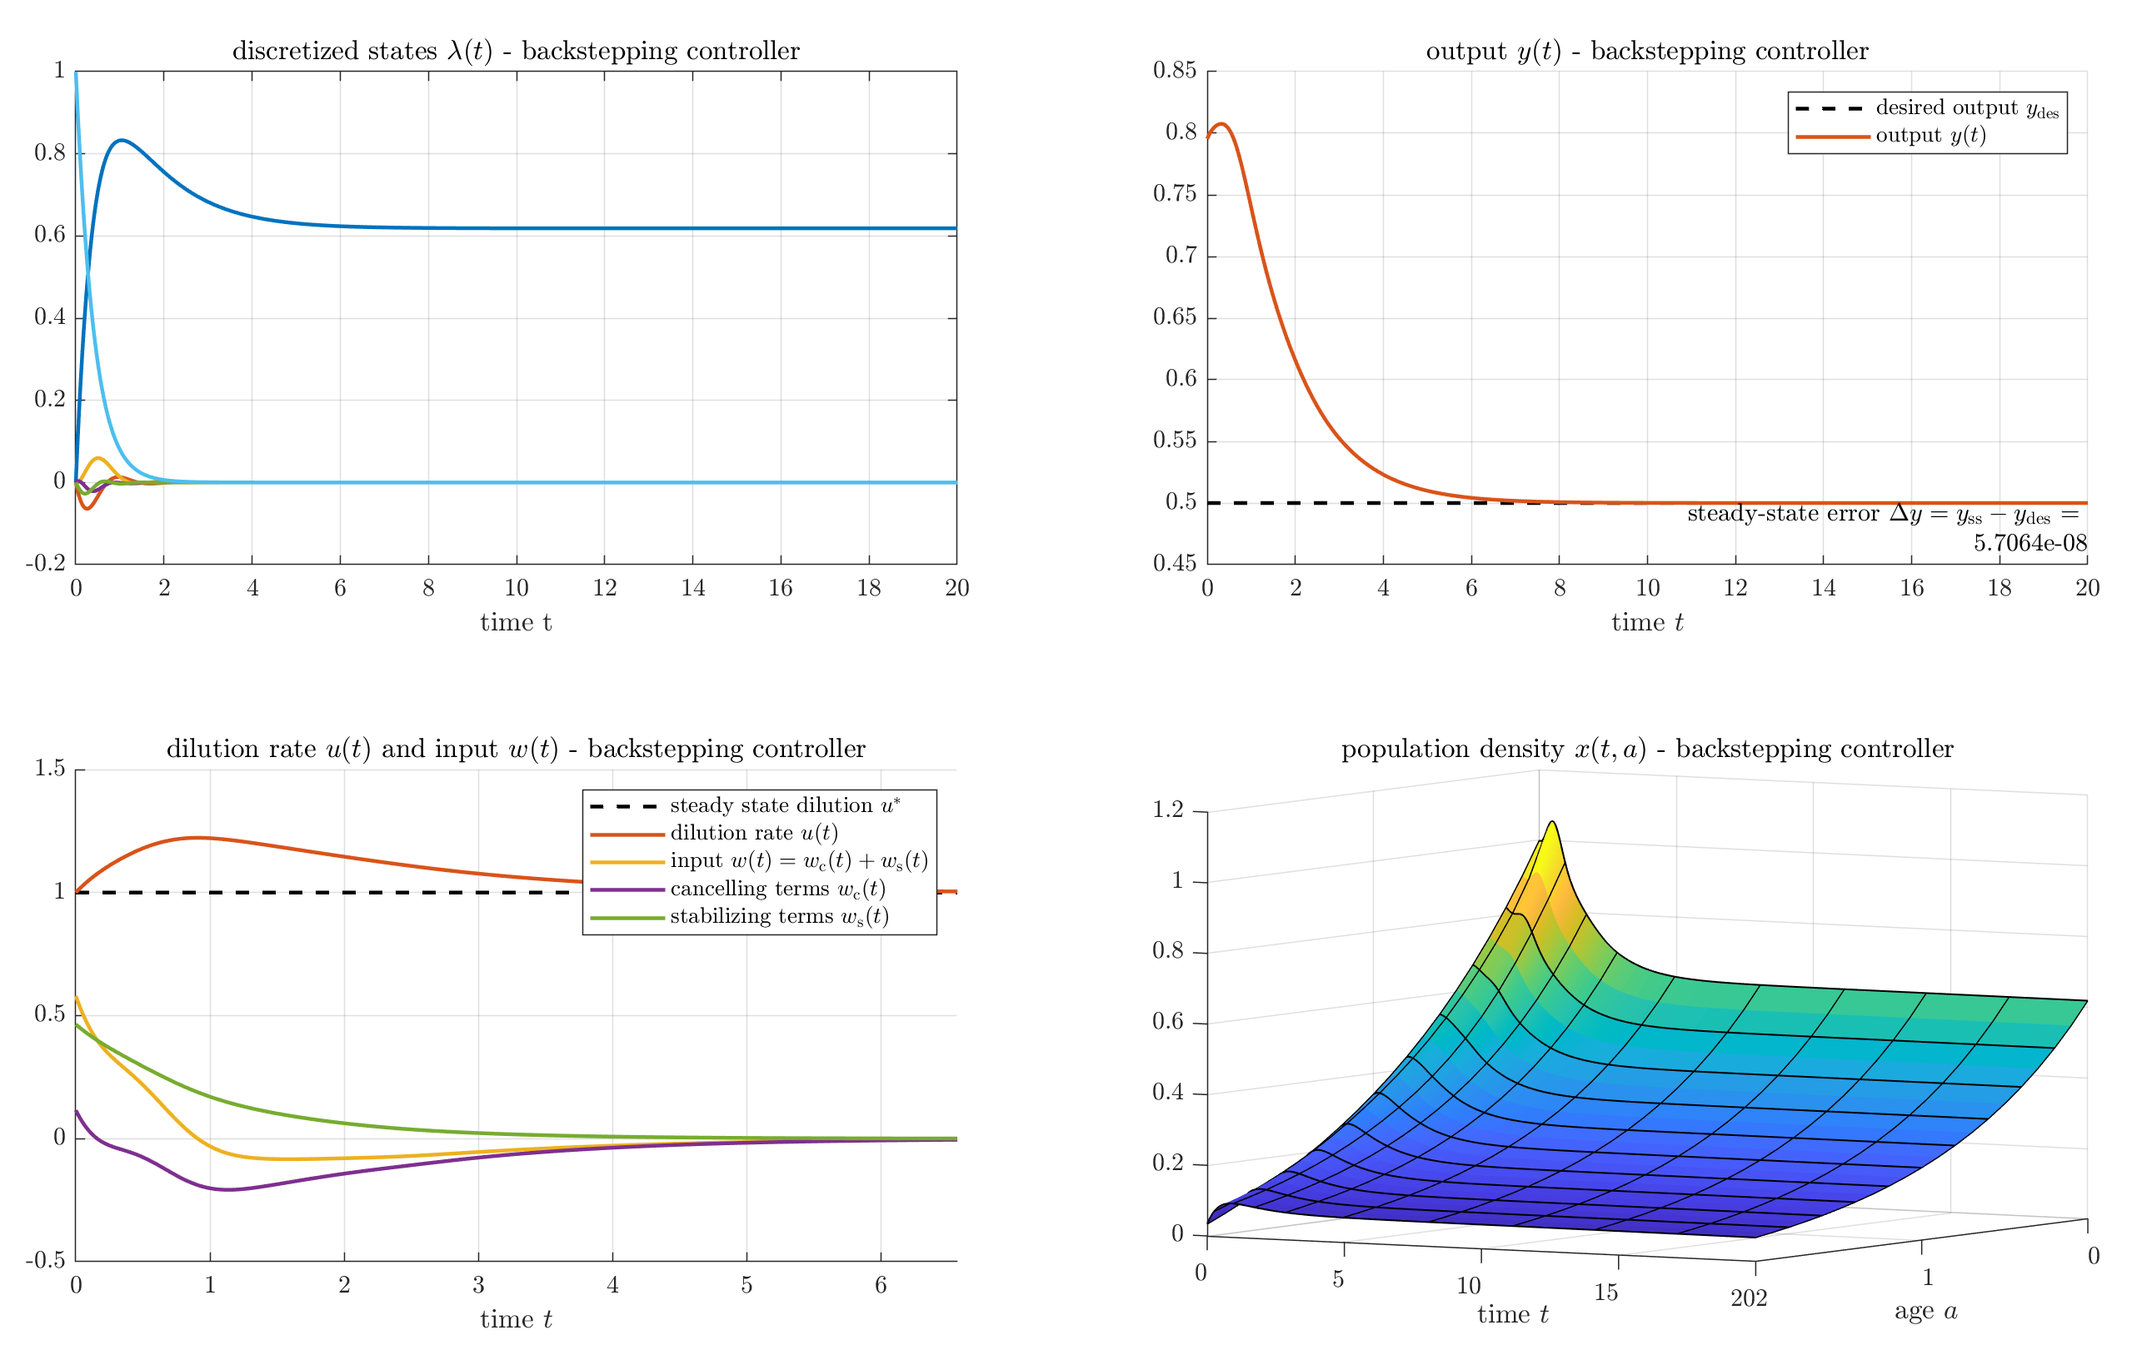
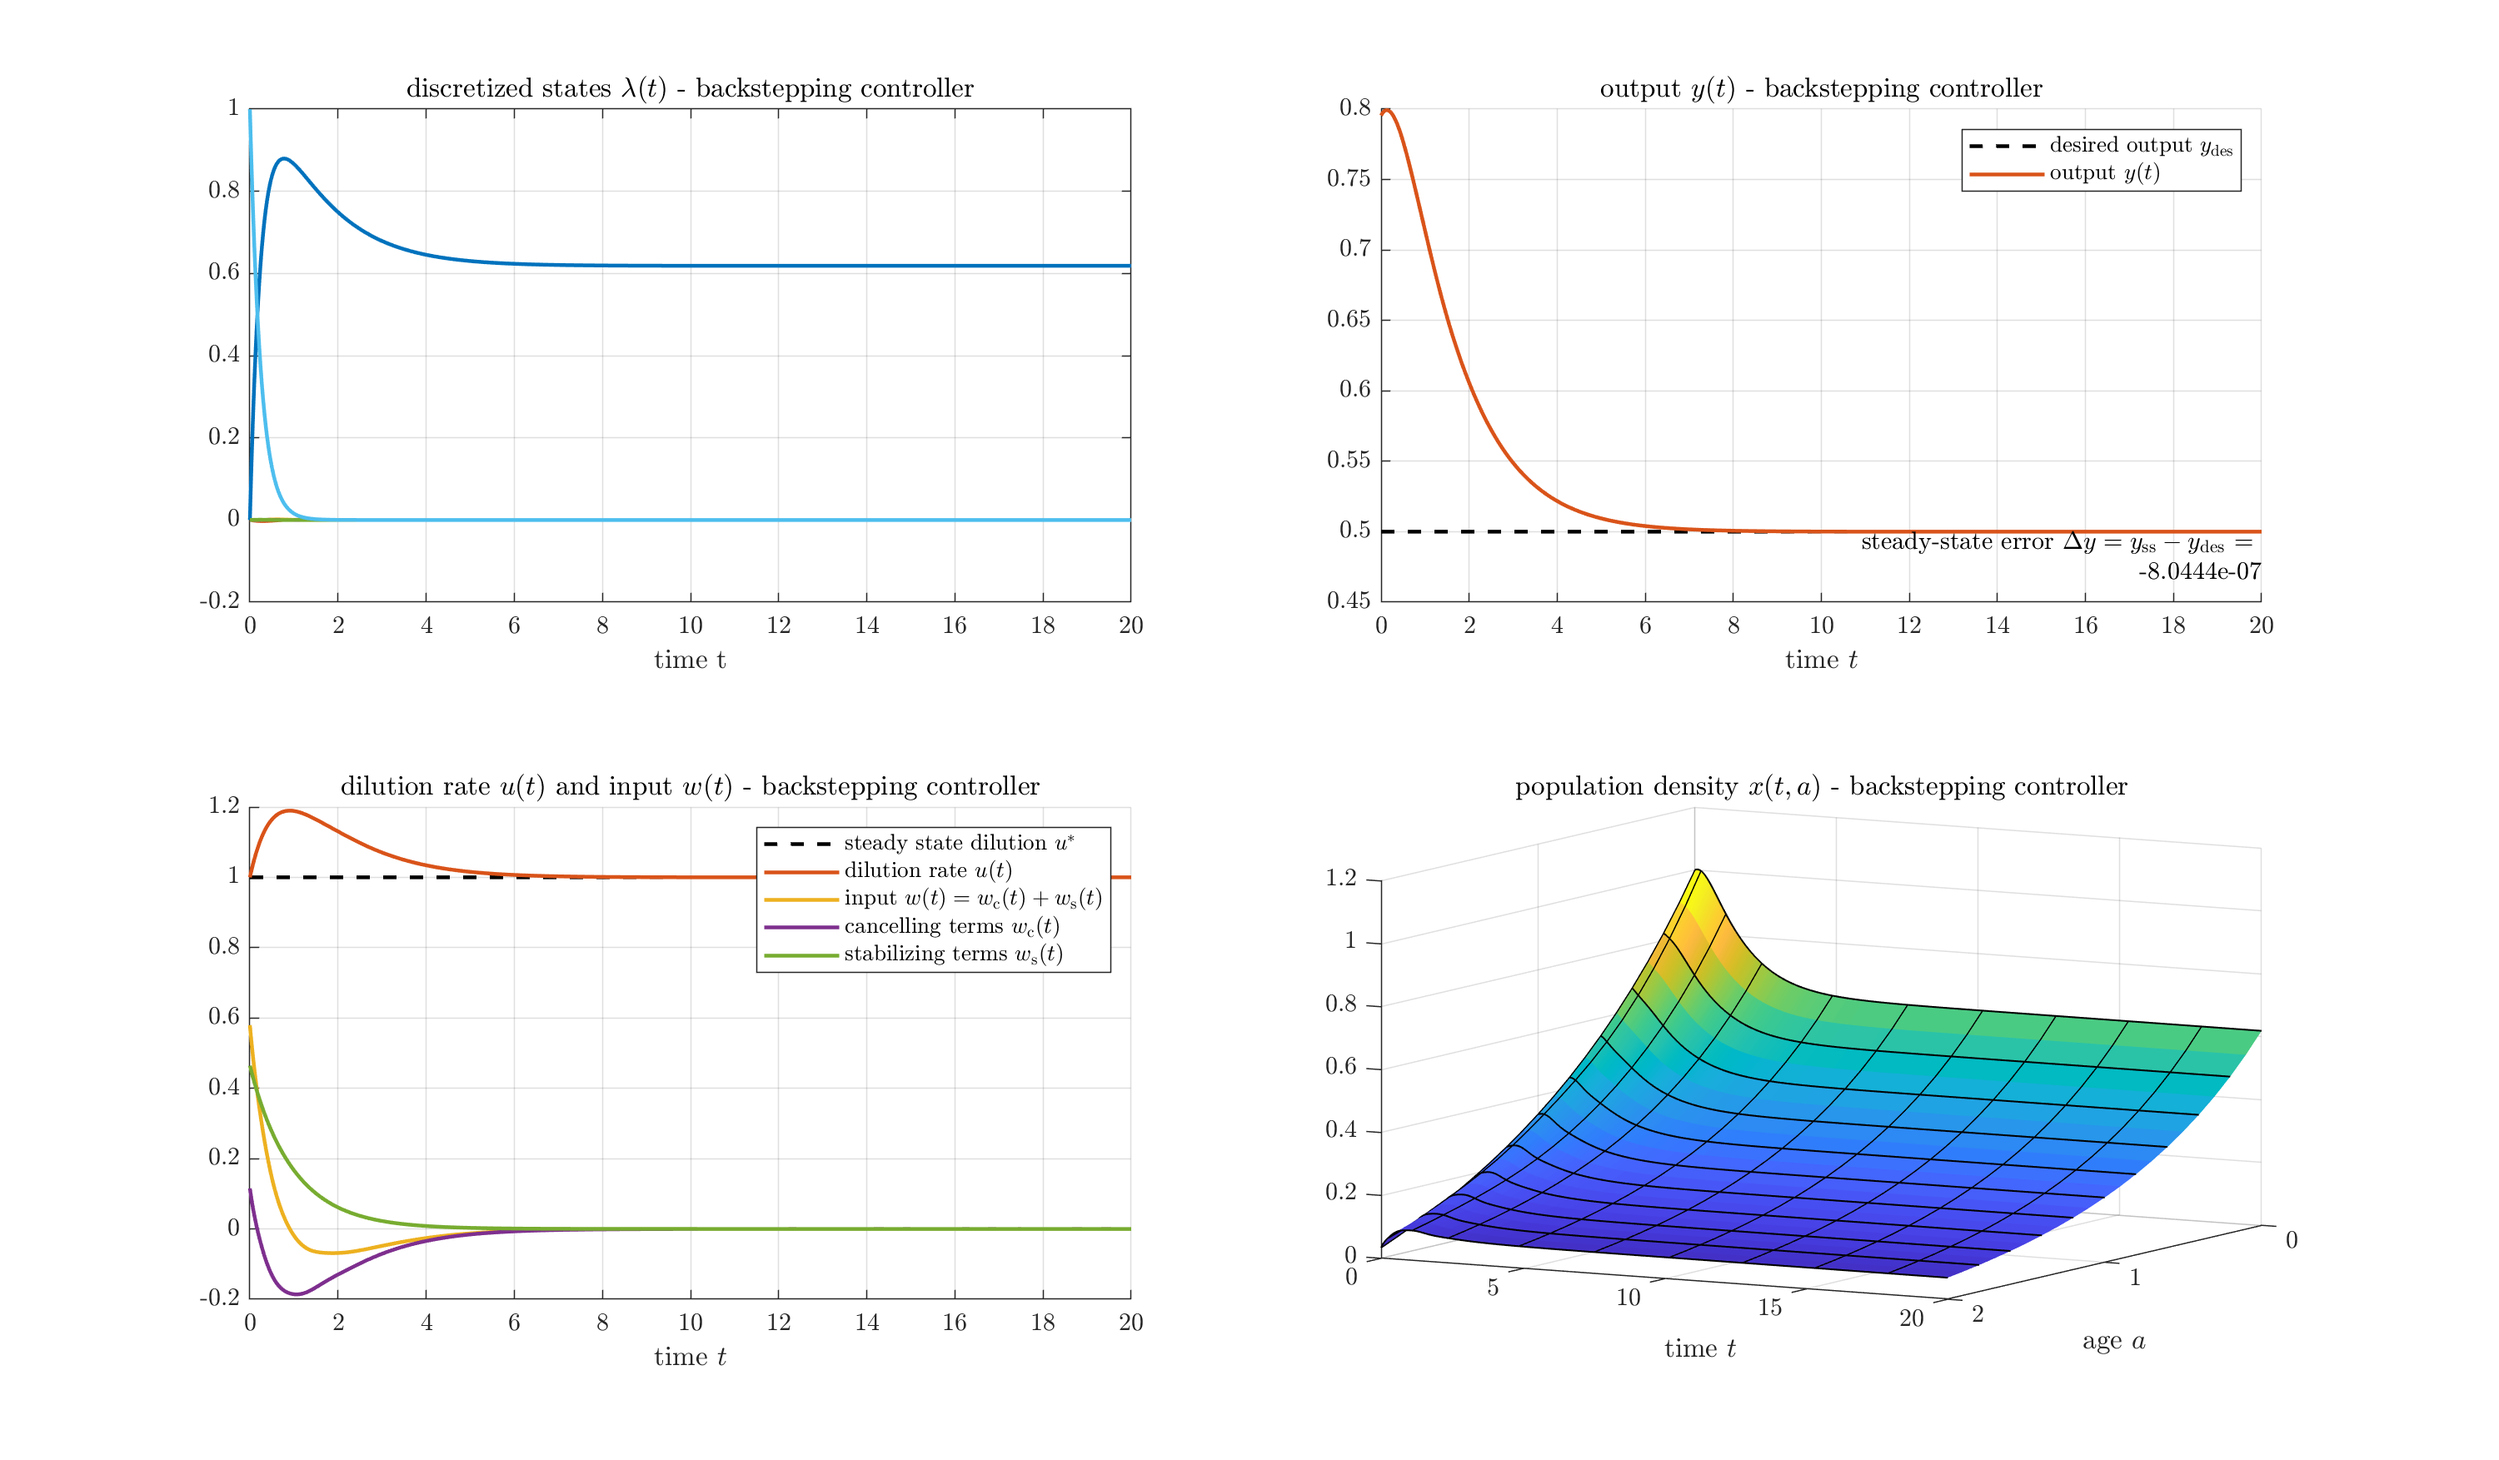
Fixed the Simulations concerning the eigenvalues

diff --git a/simulation_basic.m b/simulation_basic.m
@@ -7,39 +7,6 @@ clear
 % pairs and function for the IC]
 % --> requires two pairs of nonzero eigenvalues, computed by [Schmidt17]
 
-
-%% eigenvalues
-% of the form lambda = -sigma/A+-j*omega/(2*pi*A)
-
-% % values suggested by paper in [Schmidt17] eq. (49)-(50)
-% sigma(1) = 1.010;
-% omega(1) = .351;
-% sigma(2) = 1.250;
-% omega(2) = .601;
-
-% % values suggested by paper in [Schmidt17] figure 2
-% sigma(1) = 4.1;
-% omega(1) = 37.69;
-% sigma(2) = 5;
-% omega(2) = 62.83;
-
-% % values I suspect by paper in [Schmidt17] eq. (49)-(50)
-% % -> they match the plots - note that eigenfuctions are still
-% eigenfunctions with flipped signs.
-% sigma(1) = 4.04;
-% omega(1) = 55.43;
-% sigma(2) = 5;
-% omega(2) = 94.92;
-
-% values I found, BUT with flipped signs of real parts
-% -> 
-sigma(1) = 4.0335;
-omega(1) = 55.4606;
-sigma(2) = 4.9866;
-omega(2) = 95.7048;
-
-N_EV = 2; % number of nonzero eigenvalues considered
-
 %% ------ parameters
 
 A = 2; % max age
@@ -66,12 +33,47 @@ x0 = @(a) c1*a + exp(c2*a);
 % x0_par = 6/A^2/nu_par^3/(1-exp(-nu_par*A))*(A*nu_par*exp(-A*nu_par)+2*exp(-A*nu_par)-2+A*nu_par+2*y0*nu_par);
 % x0 = @(a) (-b_par*a + x0_par * exp(-nu_par*a));
 
+%% eigenvalues
+% of the form lambda = -sigma/A+-j*omega/(2*pi*A)
+
+% % values suggested by paper in [Schmidt17] eq. (49)-(50)
+% sigma(1) = 1.010;
+% omega(1) = .351;
+% sigma(2) = 1.250;
+% omega(2) = .601;
+
+% % values suggested by paper in [Schmidt17] figure 2
+% sigma(1) = 4.1;
+% omega(1) = 37.69;
+% sigma(2) = 5;
+% omega(2) = 62.83;
+
+% % values I suspect by paper in [Schmidt17] eq. (49)-(50)
+% % -> they match the plots - note that eigenfuctions are still
+% eigenfunctions with flipped signs.
+% sigma(1) = 4.04;
+% omega(1) = 55.43;
+% sigma(2) = 5;
+% omega(2) = 94.92;
+
+% values I found, BUT with flipped signs of real parts
+% -> 
+sigma(1) = -4.0335;
+omega(1) = 55.4606;
+sigma(2) = -4.9866;
+omega(2) = 95.7048;
+
+N_EV = 2; % number of nonzero eigenvalues considered
+
+sign_ImaginaryPart = 1; % only works for +1
+EV = -sigma/A + 1i*omega/(2*pi*A)*sign_ImaginaryPart;
+
 %% ------ basis of trial functions
 
 phi = cell(6,1);
 phi{1} = @(a) exp(-(u_star+mu).*a);
 for kk = 1:N_EV
-    phi{2*kk} = @(a) sin(omega(kk).*a/(2*pi*A)).*exp(-sigma(kk).*a/A).*phi{1}(a);
+    phi{2*kk} = @(a) sign_ImaginaryPart*sin(omega(kk).*a/(2*pi*A)).*exp(-sigma(kk).*a/A).*phi{1}(a);
     phi{2*kk+1} = @(a) cos(omega(kk).*a/(2*pi*A)).*exp(-sigma(kk).*a/A).*phi{1}(a);
 end
 phi{2*N_EV+2} = @(a) x0(a); % initial condition fcn
@@ -81,8 +83,8 @@ phi{2*N_EV+2} = @(a) x0(a); % initial condition fcn
 D_phi = cell(6,1);
 D_phi{1} = @(a) 0;
 
-Lambda_mat = @(sigma,omega) [   sigma/A,    omega/2/pi/A;
-                            -omega/2/pi/A,  sigma/A];
+Lambda_mat = @(sigma,omega) [   -sign_ImaginaryPart*sigma/A,    sign_ImaginaryPart*omega/2/pi/A;
+                                -omega/2/pi/A,                  -sigma/A];
 
 for kk = 1:N_EV
     Lambda_k = Lambda_mat(sigma(kk),omega(kk));
@@ -99,10 +101,8 @@ D_x0_sym = diff(x0_sym) + (mu+u_star)*x0_sym;
 
 D_phi{2*N_EV+2} = matlabFunction(D_x0_sym);
 
-%% Plot Basis functions - works, but with dirty tweaks...
-% differences:
-% - needed to flip the sign of the eigenvalues real part sigma
-%
+%% Plot Basis functions
+% 
 % Q: Does the sign of an eigenfunction matter?
 % A: let f(a) satisfy the ODE 
 %           Df(a) = \lambda f(a)
@@ -158,52 +158,56 @@ y_eq = C(1);
 % here, with steady state input u(t) == u_star
 % denote the simulation state by lambda
 
-% dynamics = @(t,lambda) (A_mat-eye(size(A_mat))*u_star)*lambda;
-% 
-% lambda_0 = zeros(size(A_mat,1),1);
-% lambda_0(end) = 1;
-% tspan = [0 20];
-% 
-% [t_sample,lambda_sample] = ode45(dynamics,tspan,lambda_0);
-% 
-% y_sample = C*lambda_sample';
+dynamics = @(t,lambda) (A_mat-eye(size(A_mat))*u_star)*lambda;
+
+lambda_0 = zeros(size(A_mat,1),1);
+lambda_0(end) = 1;
+tspan = [0 20];
+
+[t_sample,lambda_sample] = ode45(dynamics,tspan,lambda_0);
+
+y_sample = C*lambda_sample';
 
 %% plot results - Steady State Input
 
-% figure
-% plot(t_sample,lambda_sample)
-% title('discretized states \lambda(t) - steady state input u(t) == u^\ast')
-% xlabel('time t')
-% grid on
-% 
-% figure
-% plot(t_sample,y_sample)
-% title('output y(t) - steady state input u(t) == u^\ast')
-% xlabel('time t')
-% grid on
-% 
-% % plot the PDE state where x(t,a) = lambda(t)'*phi(a);
-% 
-% % time sample from above
-% % define domain sample
-% a_sample = 0:0.1:A;
-% 
-% [a_mesh,t_mesh] = meshgrid(a_sample,t_sample);
-% x_mesh = zeros(size(a_mesh));
-% 
-% for ii = 1:length(t_sample)
-%     for jj = 1:length(a_sample)
-%         x_mesh(ii,jj) = lambda_sample(ii,:)*eval_phi(phi,a_sample(jj));
-%     end
-% end
-% 
-% figure
-% surf_plot = surf(a_mesh,t_mesh,x_mesh);
-% LessEdgeSurf(surf_plot);
-% 
-% xlabel('age a')
-% ylabel('time t')
-% title('population density x(t,a) - steady state input u(t) == u^\ast')
+figure
+tiledlayout(2,2)
+nexttile
+plot(t_sample,lambda_sample)
+title('discretized states $\lambda(t)$ - steady state input $u(t) = u^\ast$')
+xlabel('time $t$')
+grid on
+
+nexttile
+plot(t_sample,y_sample)
+title('output $y(t)$ - steady state input $u(t) = u^\ast$')
+xlabel('time $t$')
+grid on
+
+% plot the PDE state where x(t,a) = lambda(t)'*phi(a);
+
+% time sample from above
+% define domain sample
+a_sample = 0:0.1:A;
+
+[a_mesh,t_mesh] = meshgrid(a_sample,t_sample);
+x_mesh = zeros(size(a_mesh));
+
+for ii = 1:length(t_sample)
+    for jj = 1:length(a_sample)
+        x_mesh(ii,jj) = lambda_sample(ii,:)*eval_phi(phi,a_sample(jj));
+    end
+end
+
+axes_handle = nexttile;
+surf_plot = surf(a_mesh,t_mesh,x_mesh);
+LessEdgeSurf(surf_plot);
+
+xlabel('age $a$')
+ylabel('time $t$')
+title('population density $x(t,a)$ - steady state input $u(t) = u^\ast$')
+
+axes_handle.CameraPosition = [15.7853   91.8902    2.8718];
 
 %% simulate linear system - P-controller stabilizing setpoint
 % here, with controller u(t) == u_star + ln(y(t)/y_des)

diff --git a/simulation_ActuatorDynamics.m b/simulation_ActuatorDynamics.m
@@ -14,39 +14,6 @@ clear
 % pairs and function for the IC]
 % --> requires two pairs of nonzero eigenvalues, computed by [Schmidt17]
 
-
-%% eigenvalues
-% of the form lambda = -sigma/A+-j*omega/(2*pi*A)
-
-% % values suggested by paper in [Schmidt17] eq. (49)-(50)
-% sigma(1) = 1.010;
-% omega(1) = .351;
-% sigma(2) = 1.250;
-% omega(2) = .601;
-
-% % values suggested by paper in [Schmidt17] figure 2
-% sigma(1) = 4.1;
-% omega(1) = 37.69;
-% sigma(2) = 5;
-% omega(2) = 62.83;
-
-% % values I suspect by paper in [Schmidt17] eq. (49)-(50)
-% % -> they match the plots - note that eigenfuctions are still
-% eigenfunctions with flipped signs.
-% sigma(1) = 4.04;
-% omega(1) = 55.43;
-% sigma(2) = 5;
-% omega(2) = 94.92;
-
-% values I found, BUT with flipped signs of real parts
-% -> 
-sigma(1) = 4.0335;
-omega(1) = 55.4606;
-sigma(2) = 4.9866;
-omega(2) = 95.7048;
-
-N_EV = 2; % number of nonzero eigenvalues considered
-
 %% ------ parameters
 
 A = 2; % max age
@@ -73,6 +40,41 @@ x0 = @(a) c1*a + exp(c2*a);
 % x0_par = 6/A^2/nu_par^3/(1-exp(-nu_par*A))*(A*nu_par*exp(-A*nu_par)+2*exp(-A*nu_par)-2+A*nu_par+2*y0*nu_par);
 % x0 = @(a) (-b_par*a + x0_par * exp(-nu_par*a));
 
+
+%% eigenvalues
+% of the form lambda = -sigma/A+-j*omega/(2*pi*A)
+
+% % values suggested by paper in [Schmidt17] eq. (49)-(50)
+% sigma(1) = 1.010;
+% omega(1) = .351;
+% sigma(2) = 1.250;
+% omega(2) = .601;
+
+% % values suggested by paper in [Schmidt17] figure 2
+% sigma(1) = 4.1;
+% omega(1) = 37.69;
+% sigma(2) = 5;
+% omega(2) = 62.83;
+
+% % values I suspect by paper in [Schmidt17] eq. (49)-(50)
+% % -> they match the plots - note that eigenfuctions are still
+% eigenfunctions with flipped signs.
+% sigma(1) = 4.04;
+% omega(1) = 55.43;
+% sigma(2) = 5;
+% omega(2) = 94.92;
+
+% values I found
+sigma(1) = -4.0335;
+omega(1) = 55.4606;
+sigma(2) = -4.9866;
+omega(2) = 95.7048;
+
+N_EV = 2; % number of nonzero eigenvalues considered
+
+sign_ImaginaryPart = 1; % only works for +1
+EV = -sigma/A + 1i*omega/(2*pi*A)*sign_ImaginaryPart;
+
 %% ------ basis of trial functions
 
 phi = cell(6,1);
@@ -88,8 +90,8 @@ phi{2*N_EV+2} = @(a) x0(a); % initial condition fcn
 D_phi = cell(6,1);
 D_phi{1} = @(a) 0;
 
-Lambda_mat = @(sigma,omega) [   sigma/A,    omega/2/pi/A;
-                            -omega/2/pi/A,  sigma/A];
+Lambda_mat = @(sigma,omega) [   -sign_ImaginaryPart*sigma/A,    sign_ImaginaryPart*omega/2/pi/A;
+                                -omega/2/pi/A,                  -sigma/A];
 
 for kk = 1:N_EV
     Lambda_k = Lambda_mat(sigma(kk),omega(kk));

diff --git a/eigenvalues.m b/eigenvalues.m
@@ -56,7 +56,7 @@ u_star_num = fzero(res_LotkaSharpe_fcn,u_0);
 phi_0 = @(a) exp(-(u_star_num+mu)*a); % eigenfunction of steady-state operator 
  % with eigenvalue = 0
 
-%% ----- finding eigenvalues using newton-iteration - convergence to nonzero roots unsuccessful...
+%% ----- finding eigenvalues using newton-iteration with hand-calculated jacobian - convergence to nonzero roots unsuccessful...
 % ---> failed to find initial conditions with pos. def. jacobians
 
 % % integrands of the residuals of the implicit(to-be solved) eigenvalue
@@ -108,7 +108,7 @@ phi_0 = @(a) exp(-(u_star_num+mu)*a); % eigenfunction of steady-state operator
 % grid on
 % title('convergence of newton-iteration run02 - residuals')
 
-%% ----- finding eigenvalues using newton-iteration - using symbolic toolbox
+%% ----- finding eigenvalues using newton-iteration - find jacobian using symbolic toolbox
 
 % integrands of the residuals of the implicit(to-be solved) eigenvalue
 % equations.
@@ -198,7 +198,7 @@ res_ev = @(vec) [integral(@(a) res_1_eig_int(a,vec(1),vec(2)),0,A)-1;
                  integral(@(a) res_2_eig_int(a,vec(1),vec(2)),0,A)];    
 
 sigma_sample = -5:.2:5;
-omega_sample = 1:2:100;
+omega_sample = .1:2:100;
 
 % sigma varies with columns, omega with rows:
 [sigma_grid,omega_grid] = meshgrid(sigma_sample,omega_sample);
@@ -207,7 +207,7 @@ res_norm_grid = zeros(size(sigma_grid));
 
 for ii = 1: length(omega_sample)
     for jj = 1: length(sigma_sample)
-        res_norm_grid(ii,jj) = norm(res_ev([sigma_sample(jj), omega_sample(ii)]));
+        res_norm_grid(ii,jj) = norm(res_ev_fcn([sigma_sample(jj), omega_sample(ii)]));
     end
 end
 
